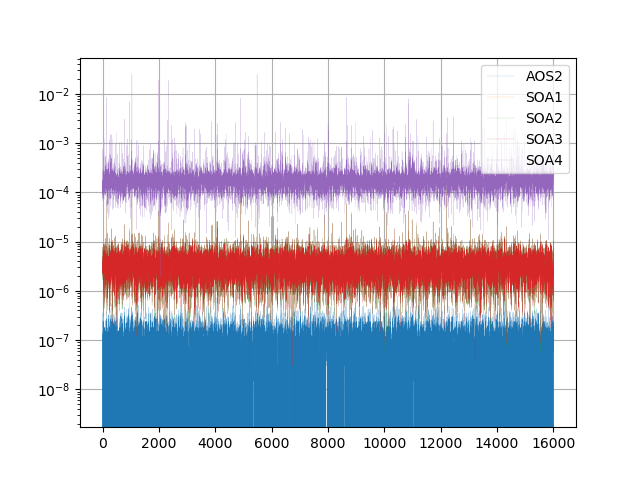
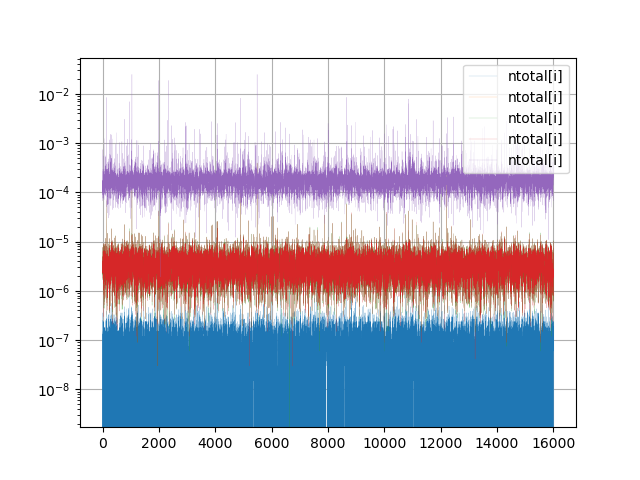
Add figure in python

Changed region(s): [[0.7812, 0.125, 0.875, 0.3438], [0.7188, 0.2812, 0.75, 0.375], [0.7188, 0.1875, 0.75, 0.2188]]

diff --git a/nbody3D/nbody/error.py b/nbody3D/nbody/error.py
@@ -1,9 +1,9 @@
 import numpy as np
-
+import pylab as pl
 
 
 def save_position(name):
-	faos = open(name, "r")
+	faos = open("results/" + name, "r")
 	daos = faos.readlines()
 	xaos = np.zeros((len(daos), 3), dtype="float64")
 	for i in range(len(daos)):
@@ -21,9 +21,20 @@ def difference_by_particule(x1, x2):
 		d  = abs(x1[i, 0] - x2[i, 0]) + abs(x1[i, 1] - x2[i, 1]) + abs(x1[i, 2] - x2[i, 2])
 		diff[i] = d 
 	return diff
-		
-
 	
+	
+def plot_error(dtotal, ntotal):
+	for i in range(len(ntotal)):
+		pl.plot(dtotal[:,i], linewidth = 0.1, label='ntotal[i]')
+	pl.legend()
+	pl.grid()
+	pl.yscale("log")
+	#pl.show()
+	print("\nPlease open results/error.png\n")
+	pl.savefig("results/error.png")
+		
+	
+		
 	
 	
 xaos1 = save_position("aos1x.txt")
@@ -59,4 +70,7 @@ for i in range(len(ntotal)):
 	print("Erreur maximale : " + str(np.max(dtotal[:,i])))
 
 
+
+
+plot_error(dtotal, ntotal)
 	

diff --git a/nbody3D/nbody/error512.py b/nbody3D/nbody/error512.py
@@ -1,5 +1,5 @@
 import numpy as np
-
+import pylab as pl
 
 
 def save_position(name):
@@ -23,7 +23,16 @@ def difference_by_particule(x1, x2):
 	return diff
 		
 
-	
+def plot_error(dtotal, ntotal):
+	for i in range(len(ntotal)):
+		pl.plot(dtotal[:,i], linewidth = 0.1, label='ntotal[i]')
+	pl.legend()
+	pl.grid()
+	pl.yscale("log")
+	#pl.show()
+	print("\nPlease open results/error.png\n")
+	pl.savefig("results/error.png")
+			
 	
 	
 xaos1 = save_position("aos1x.txt")
@@ -62,4 +71,6 @@ for i in range(len(ntotal)):
 	print("Erreur maximale : " + str(np.max(dtotal[:,i])))
 
 
+
+plot_error(dtotal, ntotal)
 	
